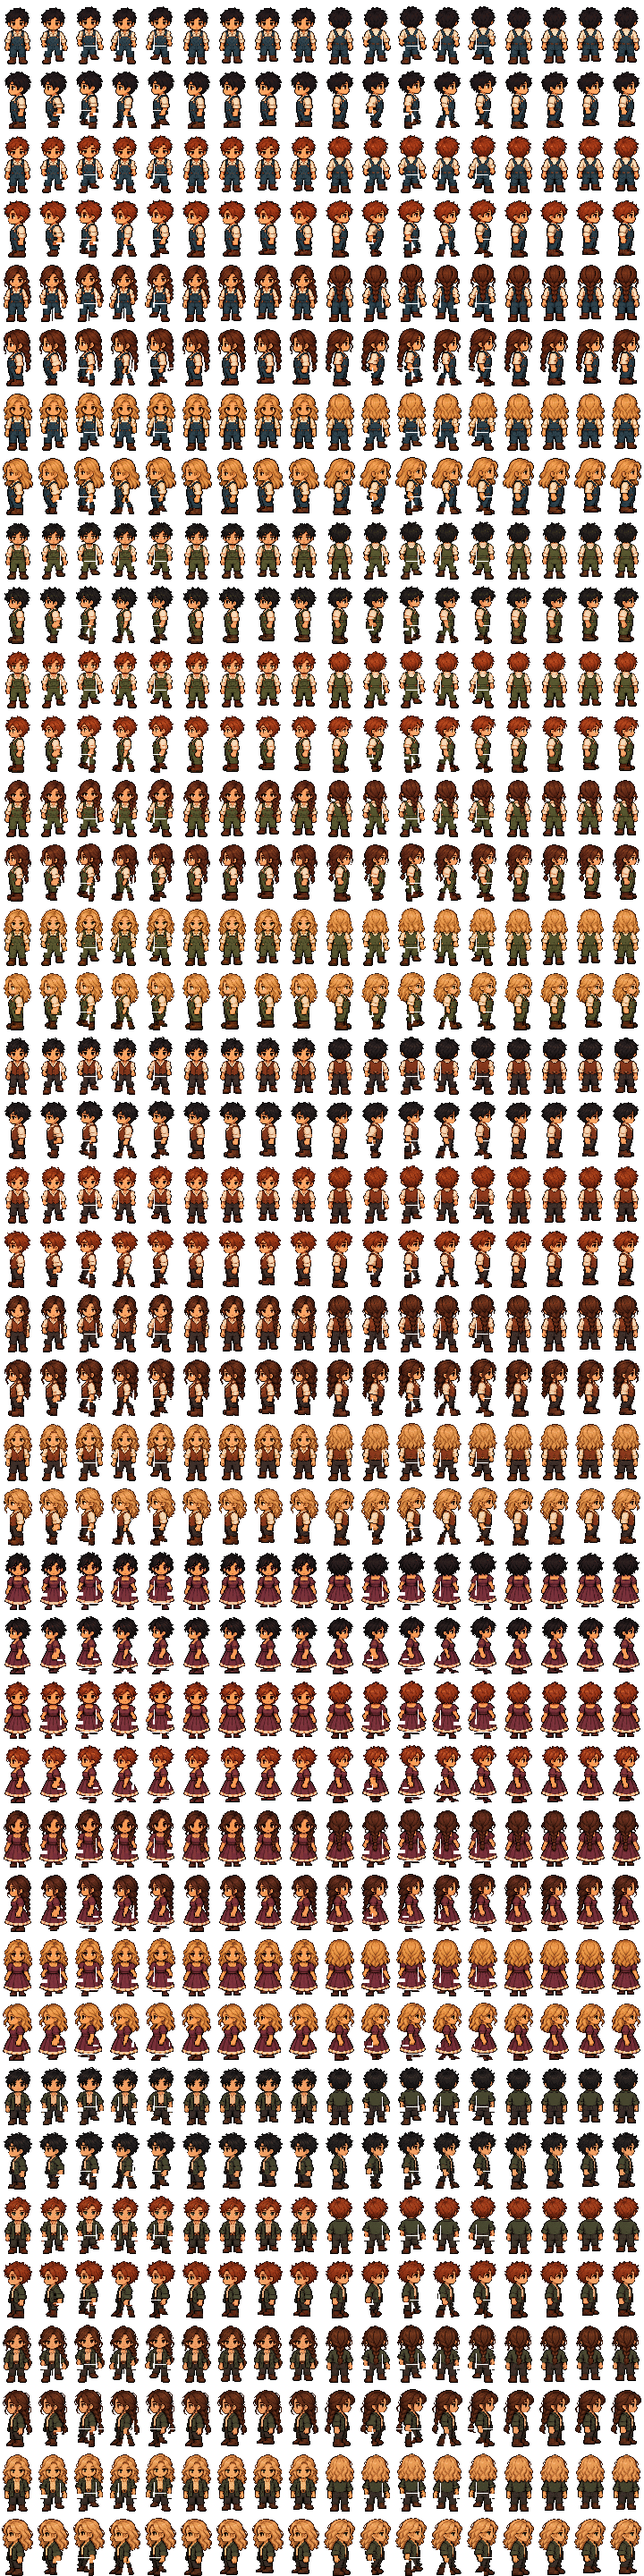
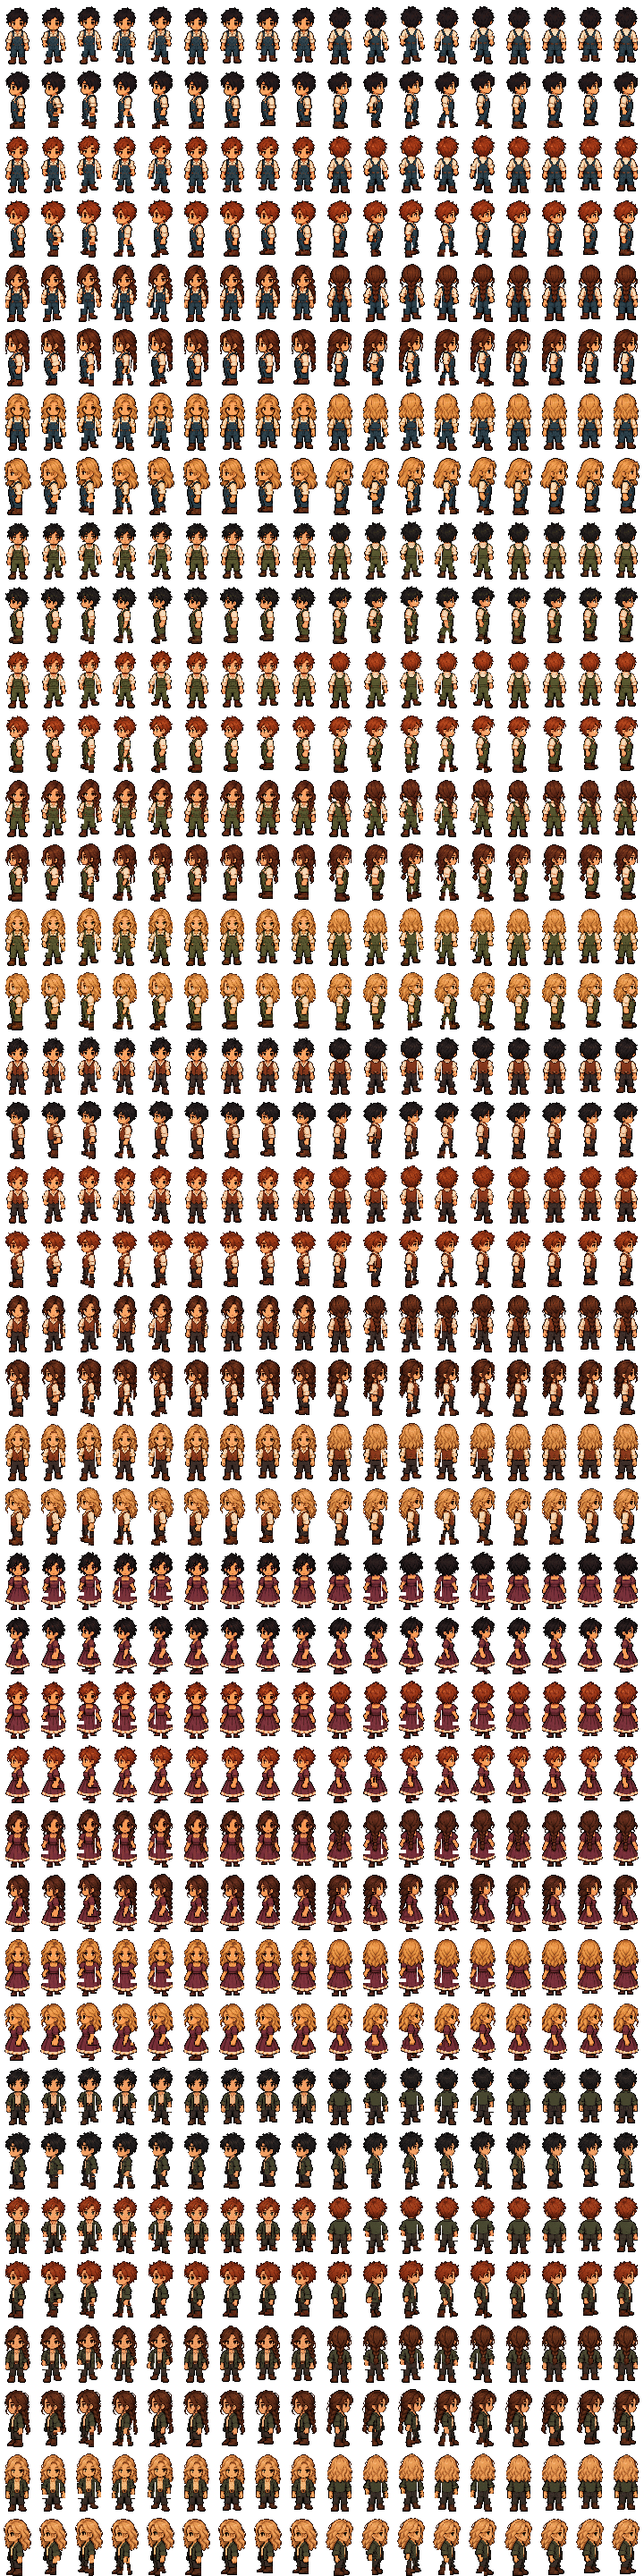
Fix walking sprite joints and slim character silhouettes

Changed region(s): [[0.0, 0.0, 1.0, 1.0]]

diff --git a/src/entities/HeldWateringCan.js b/src/entities/HeldWateringCan.js
@@ -1,5 +1,5 @@
 // Hand anchors are native farmer pixels relative to the grounded feet.
-const HANDS={down:[10,-18],up:[-10,-18],left:[-3,-18],right:[3,-18]};
+const HANDS={down:[9,-18],up:[-9,-18],left:[-3,-18],right:[3,-18]};
 export function wateringCanPose(position,direction,scale,height=0,pouring=false,bob=0){
  const [hx,hy]=HANDS[direction]||HANDS.down,flip=direction==='left'||direction==='up';
  return {x:Math.round(position.x+hx*scale),y:Math.round(position.y+(hy+bob)*scale-height),flip,originX:flip?13/16:3/16,rotation:(flip?-1:1)*(pouring?.55:0),depth:Math.round(position.y)+(direction==='up'?-1:1)};

diff --git a/scripts/people_art.py b/scripts/people_art.py
@@ -77,18 +77,28 @@ def walk_pose(base,row,frame,skirt=False):
   # upper sleeve/shoulder attached, and move elbow, forearm and hand.
   arm_box=(21,39,30,57) if row==2 else (10,39,19,57)
   arms=[cut_region(body,arm_box)]
-  # Fill only the garment behind the detached forearm with adjacent
-  # source torso pixels; the moving hand no longer leaves a hole.
+  # Reconstruct the occluded garment through the hips from the visible
+  # trouser/skirt silhouette below the hand. A fixed narrow edge left
+  # missing pixels at the waist when the forearm swung away.
   x0,y0,x1,y1=arm_box
+  donor_y=58
+  opaque=[x for x in range(WIDTH) if base.getpixel((x,donor_y))[3]]
+  donor_edge=max(opaque) if row==2 else min(opaque)
+  shoulder_edge=23 if row==2 else 17
   for y in range(y0,y1):
-   edge=x0-1 if row==2 else x1
+   t=max(0,min(1,(y-45)/12));edge=round(shoulder_edge+(donor_edge-shoulder_edge)*t)
+   color=base.getpixel((WIDTH//2,y))
+   if not color[3]:color=base.getpixel((WIDTH//2,donor_y))
    for x in range(x0,x1):
-    inside=x<=23 if row==2 else x>=17
-    if inside and base.getpixel((x,y))[3]:body.putpixel((x,y),base.getpixel((edge,y)))
- legs=cut_region(body,(0,leg_y,WIDTH,HEIGHT))
+    inside=x<=edge if row==2 else x>=edge
+    if inside:body.putpixel((x,y),color)
+ # Keep two source rows of hip/hem overlap under the torso. Without this,
+ # its one-pixel rise separates the entire waist from both legs.
+ legs=Image.new('RGBA',base.size);legs.paste(body.crop((0,leg_y,WIDTH,HEIGHT)),(0,leg_y))
+ body.paste((0,0,0,0),(0,leg_y+2,WIDTH,HEIGHT))
  # A one-pixel rise during the passing poses gives a gentle body bob.
  bob=-1 if passing else 0
- out=Image.new('RGBA',base.size);out.alpha_composite(body,(0,bob))
+ out=Image.new('RGBA',base.size)
  halves=[]
  for left in [True,False]:
   box=(0,leg_y,WIDTH//2,HEIGHT) if left else (WIDTH//2,leg_y,WIDTH,HEIGHT)
@@ -96,10 +106,11 @@ def walk_pose(base,row,frame,skirt=False):
  if row<2:
   for side,part in enumerate(halves):
    forward=(side==0)==(phase>0)
-   lift=(3 if not forward else 0) if not passing else (5 if not forward else 0)
-   spread=(-1 if side==0 else 1)*(1 if not passing else 0)
+   lift=(2 if not forward else 0) if not passing else (3 if not forward else 0)
+   spread=0
    knee=(1 if side==0 else -1) if passing and not forward else spread
    out.alpha_composite(bend_limb(part,leg_y,61 if not skirt else 67,HEIGHT,knee,spread,lift))
+  out.alpha_composite(body,(0,bob))
   for side,part in enumerate(arms):
    forward=(side==0)!=(phase>0);lift=0 if forward else 4
    swing=(-2 if side==0 else 2) if forward else (1 if side==0 else -1)
@@ -109,26 +120,49 @@ def walk_pose(base,row,frame,skirt=False):
   # and brings the planted leg beneath the torso, rather than sliding.
   for side,part in enumerate(halves):
    direction=phase*(1 if side==0 else -1)
-   dx=direction*(4 if not passing else 1)
+   dx=direction*(3 if not passing else 1)
    recovering=direction>0 if row==2 else direction<0
-   lift=1 if not passing else (4 if recovering else 0)
-   knee=round(dx/2) if not passing else ((-4 if row==2 else 4) if recovering else 0)
-   if side==0:
-    # Far leg is a little darker so both legs read when they overlap.
-    alpha=part.getchannel('A');rgb=part.convert('RGB').point(lambda v:round(v*.84));part=rgb.convert('RGBA');part.putalpha(alpha)
+   lift=1 if not passing else (3 if recovering else 0)
+   knee=round(dx/2) if not passing else ((-2 if row==2 else 2) if recovering else 0)
    out.alpha_composite(bend_limb(part,leg_y,61 if not skirt else 67,HEIGHT,knee,dx,lift))
+  out.alpha_composite(body,(0,bob))
   part=arms[0];swing=(phase if row==2 else -phase)*(3 if not passing else 1)
   out.alpha_composite(bend_limb(part,39,47,57,round(swing/2),swing,2 if phase>0 else 0),(0,bob))
  return out
 
+def connected_person(im):
+ # Discard tiny detached outline/cloth specks created at a moving joint.
+ # Keep the actual connected character; never add a dark patch over a gap.
+ ink={(x,y) for y in range(HEIGHT) for x in range(WIDTH) if im.getpixel((x,y))[3]}
+ groups=[]
+ while ink:
+  stack=[ink.pop()];group=[]
+  while stack:
+   x,y=stack.pop();group.append((x,y))
+   for dx in [-1,0,1]:
+    for dy in [-1,0,1]:
+     n=(x+dx,y+dy)
+     if n in ink:ink.remove(n);stack.append(n)
+  groups.append(group)
+ for group in sorted(groups,key=len,reverse=True)[1:]:
+  assert len(group)<=8,('Detached limb must be repaired, not discarded',len(group))
+  for p in group:im.putpixel(p,(0,0,0,0))
+ return im
+
+def slim_pose(im):
+ # About 10% slimmer ink; retain 40x72 cells, height and foot anchors.
+ # Native nearest pixels only; no fractional runtime sprite scaling.
+ narrow=im.resize((36,HEIGHT),Image.Resampling.NEAREST)
+ out=Image.new('RGBA',im.size);out.alpha_composite(narrow,(2,0));return connected_person(out)
+
 def cell(outfit,hair,row,frame,extra=-1):
  im=pixel_pose(outfit,hair,row,extra).copy()
  skirt=outfit=='plum' or extra==2
- if frame in [1,2,3,4]:return walk_pose(im,row,frame,skirt)
+ if frame in [1,2,3,4]:return slim_pose(walk_pose(im,row,frame,skirt))
  if frame in [6,7,8]:
   amount={6:1,7:3,8:2}[frame];legs=cut_region(im,(0,65 if skirt else 52,WIDTH,HEIGHT))
   im.alpha_composite(bend_limb(legs,65 if skirt else 52,67 if skirt else 61,HEIGHT,0,0,amount))
- return im
+ return slim_pose(im)
 
 def sheet(outfit,hair,extra=-1):
  im=Image.new('RGBA',(WIDTH*9,HEIGHT*4))

diff --git a/docs/assets/licenses/characters-v2/SOURCE_RECORD.md b/docs/assets/licenses/characters-v2/SOURCE_RECORD.md
@@ -1,3 +1,11 @@
+# v0.21.3 — joined walking sprites and slimmer characters (2026-10-13)
+
+The passing torso previously rose one pixel above the legs, exposing a transparent waist row. The animation now overlaps two native hip rows and restores the side garment behind moving forearms. Softer knee lift and closer foot placement reduce the exaggerated gait; the added dark far-leg tint is removed. Native artwork is about 10% narrower, with unchanged 40×72 cells, 64-pixel standing height and integer 1× world scale.
+
+Source PNGs, source hashes and six prompts below remain unchanged. Native seam repair preserves a two-row hip/hem overlap when the body rises, then composites source garment edges behind side forearms. Contact leg spread is zero, recovery knee/lift smaller and extra far-leg darkening removed. A nearest 40→36 horizontal native conversion centers the ink with two transparent columns on each side; runtime/world/UI scaling stays integer. Only detached outline/cuff specks up to eight pixels are removed, with an assertion for larger disconnected parts. All 720 appearance frames and 160 town-person cells are regenerated; frame metadata and the 698 unrelated town cells remain. No new image generation or external asset. [Verification](../../../verification/character-seams/README.md).
+
+---
+
 # v0.21.2 native scale and articulated walking update
 
 Characters now use 40×72 native cells at integer 1× world scale, with a 64-pixel visible height instead of 76 (about 16% smaller). A stable 32-colour identity palette simplifies shading; the far leg receives a small additional shade. Faces, hair, clothes and boots retain the approved source art. Four walking poses use contact/passing steps, opposing arms, bent recovering knees and a one-pixel passing bob. Both player and NPC sprites share the poses; held tools follow the animated grip. Standing, jump, feet anchors, depth and local appearance/saves remain.

diff --git a/docs/PROJECT_STATUS.md b/docs/PROJECT_STATUS.md
@@ -1,3 +1,11 @@
+# v0.21.3 — joined walking sprites and slimmer characters (2026-10-13)
+
+The passing torso previously rose one pixel above the legs, exposing a transparent waist row. The animation now overlaps two native hip rows and restores the side garment behind moving forearms. Softer knee lift and closer foot placement reduce the exaggerated gait; the added dark far-leg tint is removed. Native artwork is about 10% narrower, with unchanged 40×72 cells, 64-pixel standing height and integer 1× world scale.
+
+317 tests and normal/explicit playtest builds pass. Three local style profiles pass purchases, four facings, rotation, held tools and saved appearance. Two native motion profiles (English desktop and Burmese phone landscape) pass: all 20 styles and eight town variants have four distinct arm/foot poses, no transparent central waist pixels and one connected silhouette in each standing/walking frame. Actual keyboard/touch movement and town walking cycle all four frames with clean consoles. Depth checks and public release verification are recorded below when complete. Physical-phone/Safari comfort and human art acceptance remain checks. No source push or competition submission.
+
+---
+
 # v0.21.2 — smaller characters and active limbs (2026-10-13)
 
 Characters now use 40×72 native cells at integer 1× world scale, with a 64-pixel visible height instead of 76 (about 16% smaller). A stable 32-colour identity palette simplifies shading; the far leg receives a small additional shade. Faces, hair, clothes and boots retain the approved source art. Four walking poses use contact/passing steps, opposing arms, bent recovering knees and a one-pixel passing bob. Both player and NPC sprites share the poses; held tools follow the animated grip. Standing, jump, feet anchors, depth and local appearance/saves remain.

diff --git a/docs/ARCHITECTURE.md b/docs/ARCHITECTURE.md
@@ -1,3 +1,9 @@
+# v0.21.3 — joined walking sprites and slimmer characters (2026-10-13)
+
+The passing torso previously rose one pixel above the legs, exposing a transparent waist row. The animation now overlaps two native hip rows and restores the side garment behind moving forearms. Softer knee lift and closer foot placement reduce the exaggerated gait; the added dark far-leg tint is removed. Native artwork is about 10% narrower, with unchanged 40×72 cells, 64-pixel standing height and integer 1× world scale. `scripts/people_art.py` composites legs below the overlapped torso, reconstructs occluded side garments from their source hip silhouette and packs the existing rig. A nearest native 40→36-column conversion is centered inside each original frame; runtime scaling and indexes remain. Cleanup removes only detached specks of at most eight pixels and asserts on a detached larger limb. The watering-can front/back hand anchor moves one native pixel inward. Scene, collision, cadence, save schema 19 and appearance transactions remain.
+
+---
+
 # v0.21.2 — character scale and walking refinement (2026-10-13)
 
 Characters now use 40×72 native cells at integer 1× world scale, with a 64-pixel visible height instead of 76 (about 16% smaller). A stable 32-colour identity palette simplifies shading; the far leg receives a small additional shade. Faces, hair, clothes and boots retain the approved source art. Four walking poses use contact/passing steps, opposing arms, bent recovering knees and a one-pixel passing bob. Both player and NPC sprites share the poses; held tools follow the animated grip. Standing, jump, feet anchors, depth and local appearance/saves remain.

diff --git a/docs/ASSET_LICENSES.md b/docs/ASSET_LICENSES.md
@@ -1,3 +1,9 @@
+# v0.21.3 — joined walking sprites and slimmer characters (2026-10-13)
+
+The passing torso previously rose one pixel above the legs, exposing a transparent waist row. The animation now overlaps two native hip rows and restores the side garment behind moving forearms. Softer knee lift and closer foot placement reduce the exaggerated gait; the added dark far-leg tint is removed. Native artwork is about 10% narrower, with unchanged 40×72 cells, 64-pixel standing height and integer 1× world scale. The six original generated source sheets, prompt record and SHA-256 evidence remain unchanged: [character source record](assets/licenses/characters-v2/SOURCE_RECORD.md). Updated processed people remain original generated project artwork; 698 other town cells retain their separate established licences. No new asset/dependency/licence or screenshot sampling. Source sheets and QA previews remain excluded from the runtime allowlist.
+
+---
+
 # v0.21.2 — character scale and walking refinement (2026-10-13)
 
 Characters now use 40×72 native cells at integer 1× world scale, with a 64-pixel visible height instead of 76 (about 16% smaller). A stable 32-colour identity palette simplifies shading; the far leg receives a small additional shade. Faces, hair, clothes and boots retain the approved source art. Four walking poses use contact/passing steps, opposing arms, bent recovering knees and a one-pixel passing bob. Both player and NPC sprites share the poses; held tools follow the animated grip. Standing, jump, feet anchors, depth and local appearance/saves remain.

diff --git a/docs/verification/character-seams/README.md b/docs/verification/character-seams/README.md
@@ -1,0 +1,7 @@
+# v0.21.3 character seam verification
+
+The passing torso previously rose one pixel above the legs, exposing a transparent waist row. The animation now overlaps two native hip rows and restores the side garment behind moving forearms. Softer knee lift and closer foot placement reduce the exaggerated gait; the added dark far-leg tint is removed. Native artwork is about 10% narrower, with unchanged 40×72 cells, 64-pixel standing height and integer 1× world scale.
+
+317 tests and normal/explicit playtest builds pass. Three local style profiles pass purchases, four facings, rotation, held tools and saved appearance. Two native motion profiles (English desktop and Burmese phone landscape) pass: all 20 styles and eight town variants have four distinct arm/foot poses, no transparent central waist pixels and one connected silhouette in each standing/walking frame. Actual keyboard/touch movement and town walking cycle all four frames with clean consoles. Depth checks and public release verification are recorded below when complete. Physical-phone/Safari comfort and human art acceptance remain checks.
+
+All browser fixtures use disposable contexts. Native pose preview: walk-right.gif, using actual processed runtime pixels at integer 3×. Seam checks cover 560 standing/walk texture frames per browser profile, including all four directions. Source art and runtime audit: assets/licenses/characters-v2/SOURCE_RECORD.md and asset-audit.json. No source push or competition submission.

diff --git a/docs/ART_DIRECTION.md b/docs/ART_DIRECTION.md
@@ -1,3 +1,9 @@
+# v0.21.3 — joined walking sprites and slimmer characters (2026-10-13)
+
+The passing torso previously rose one pixel above the legs, exposing a transparent waist row. The animation now overlaps two native hip rows and restores the side garment behind moving forearms. Softer knee lift and closer foot placement reduce the exaggerated gait; the added dark far-leg tint is removed. Native artwork is about 10% narrower, with unchanged 40×72 cells, 64-pixel standing height and integer 1× world scale. Original approved hair, face, clothing and boots remain. Preserve natural gaps between feet; repair disconnected joints with source garment pixels rather than dark patches. Nearest filtering and native whole-pixel rendering remain.
+
+---
+
 # v0.21.2 — character scale and walking refinement (2026-10-13)
 
 Characters now use 40×72 native cells at integer 1× world scale, with a 64-pixel visible height instead of 76 (about 16% smaller). A stable 32-colour identity palette simplifies shading; the far leg receives a small additional shade. Faces, hair, clothes and boots retain the approved source art. Four walking poses use contact/passing steps, opposing arms, bent recovering knees and a one-pixel passing bob. Both player and NPC sprites share the poses; held tools follow the animated grip. Standing, jump, feet anchors, depth and local appearance/saves remain.

diff --git a/README.md b/README.md
@@ -1,3 +1,11 @@
+# v0.21.3 — joined walking sprites and slimmer characters (2026-10-13)
+
+The passing torso previously rose one pixel above the legs, exposing a transparent waist row. The animation now overlaps two native hip rows and restores the side garment behind moving forearms. Softer knee lift and closer foot placement reduce the exaggerated gait; the added dark far-leg tint is removed. Native artwork is about 10% narrower, with unchanged 40×72 cells, 64-pixel standing height and integer 1× world scale.
+
+[Playtest](https://simple-life-playtest.vercel.app/). Refresh and Continue to retain progress. [Checks](docs/verification/character-seams/README.md).
+
+---
+
 # v0.21.2 — smaller people and visible walk cycles (2026-10-13)
 
 Characters now use 40×72 native cells at integer 1× world scale, with a 64-pixel visible height instead of 76 (about 16% smaller). A stable 32-colour identity palette simplifies shading; the far leg receives a small additional shade. Faces, hair, clothes and boots retain the approved source art. Four walking poses use contact/passing steps, opposing arms, bent recovering knees and a one-pixel passing bob. Both player and NPC sprites share the poses; held tools follow the animated grip. Standing, jump, feet anchors, depth and local appearance/saves remain.

diff --git a/docs/AI_USAGE.md b/docs/AI_USAGE.md
@@ -1,3 +1,9 @@
+# v0.21.3 — joined walking sprites and slimmer characters (2026-10-13)
+
+Codex assisted with source-pixel seam diagnosis, native hip overlap/garment reconstruction, gentler limb motion, horizontal silhouette narrowing, held-tool anchoring, browser regression checks, documentation and the authorized existing playtest update. No new image generation, third-party art, dependency or subagent. Existing generated character source/prompts remain disclosed in assets/licenses/characters-v2/SOURCE_RECORD.md.
+
+---
+
 # v0.21.2 — character scale and walking refinement (2026-10-13)
 
 Characters now use 40×72 native cells at integer 1× world scale, with a 64-pixel visible height instead of 76 (about 16% smaller). A stable 32-colour identity palette simplifies shading; the far leg receives a small additional shade. Faces, hair, clothes and boots retain the approved source art. Four walking poses use contact/passing steps, opposing arms, bent recovering knees and a one-pixel passing bob. Both player and NPC sprites share the poses; held tools follow the animated grip. Standing, jump, feet anchors, depth and local appearance/saves remain.

diff --git a/docs/ORIGINALITY_DECLARATION.md b/docs/ORIGINALITY_DECLARATION.md
@@ -1,3 +1,9 @@
+# v0.21.3 — joined walking sprites and slimmer characters (2026-10-13)
+
+This revision derives people from the retained original generated project sheets through documented native packing/joint code. No supplied screenshot pixels, proprietary character sprites or new third-party packs are copied. Established environment/legacy atlas licences remain separate. AI assistance is disclosed; this is provenance, not an exclusive-copyright or competition-eligibility certification.
+
+---
+
 # v0.21.2 — character scale and walking refinement (2026-10-13)
 
 Characters now use 40×72 native cells at integer 1× world scale, with a 64-pixel visible height instead of 76 (about 16% smaller). A stable 32-colour identity palette simplifies shading; the far leg receives a small additional shade. Faces, hair, clothes and boots retain the approved source art. Four walking poses use contact/passing steps, opposing arms, bent recovering knees and a one-pixel passing bob. Both player and NPC sprites share the poses; held tools follow the animated grip. Standing, jump, feet anchors, depth and local appearance/saves remain.

diff --git a/docs/AI_USE_DECLARATION.md b/docs/AI_USE_DECLARATION.md
@@ -1,3 +1,9 @@
+# v0.21.3 — joined walking sprites and slimmer characters (2026-10-13)
+
+Codex assisted with native sprite-joint repair, thinner silhouettes, motion checks and the authorized same-project playtest update. Six previously disclosed generated source sheets remain the art source; no new generation or third-party art. Source and exact prompt evidence remain in assets/licenses/characters-v2/SOURCE_RECORD.md.
+
+---
+
 # v0.21.2 — character scale and walking refinement (2026-10-13)
 
 Characters now use 40×72 native cells at integer 1× world scale, with a 64-pixel visible height instead of 76 (about 16% smaller). A stable 32-colour identity palette simplifies shading; the far leg receives a small additional shade. Faces, hair, clothes and boots retain the approved source art. Four walking poses use contact/passing steps, opposing arms, bent recovering knees and a one-pixel passing bob. Both player and NPC sprites share the poses; held tools follow the animated grip. Standing, jump, feet anchors, depth and local appearance/saves remain.
